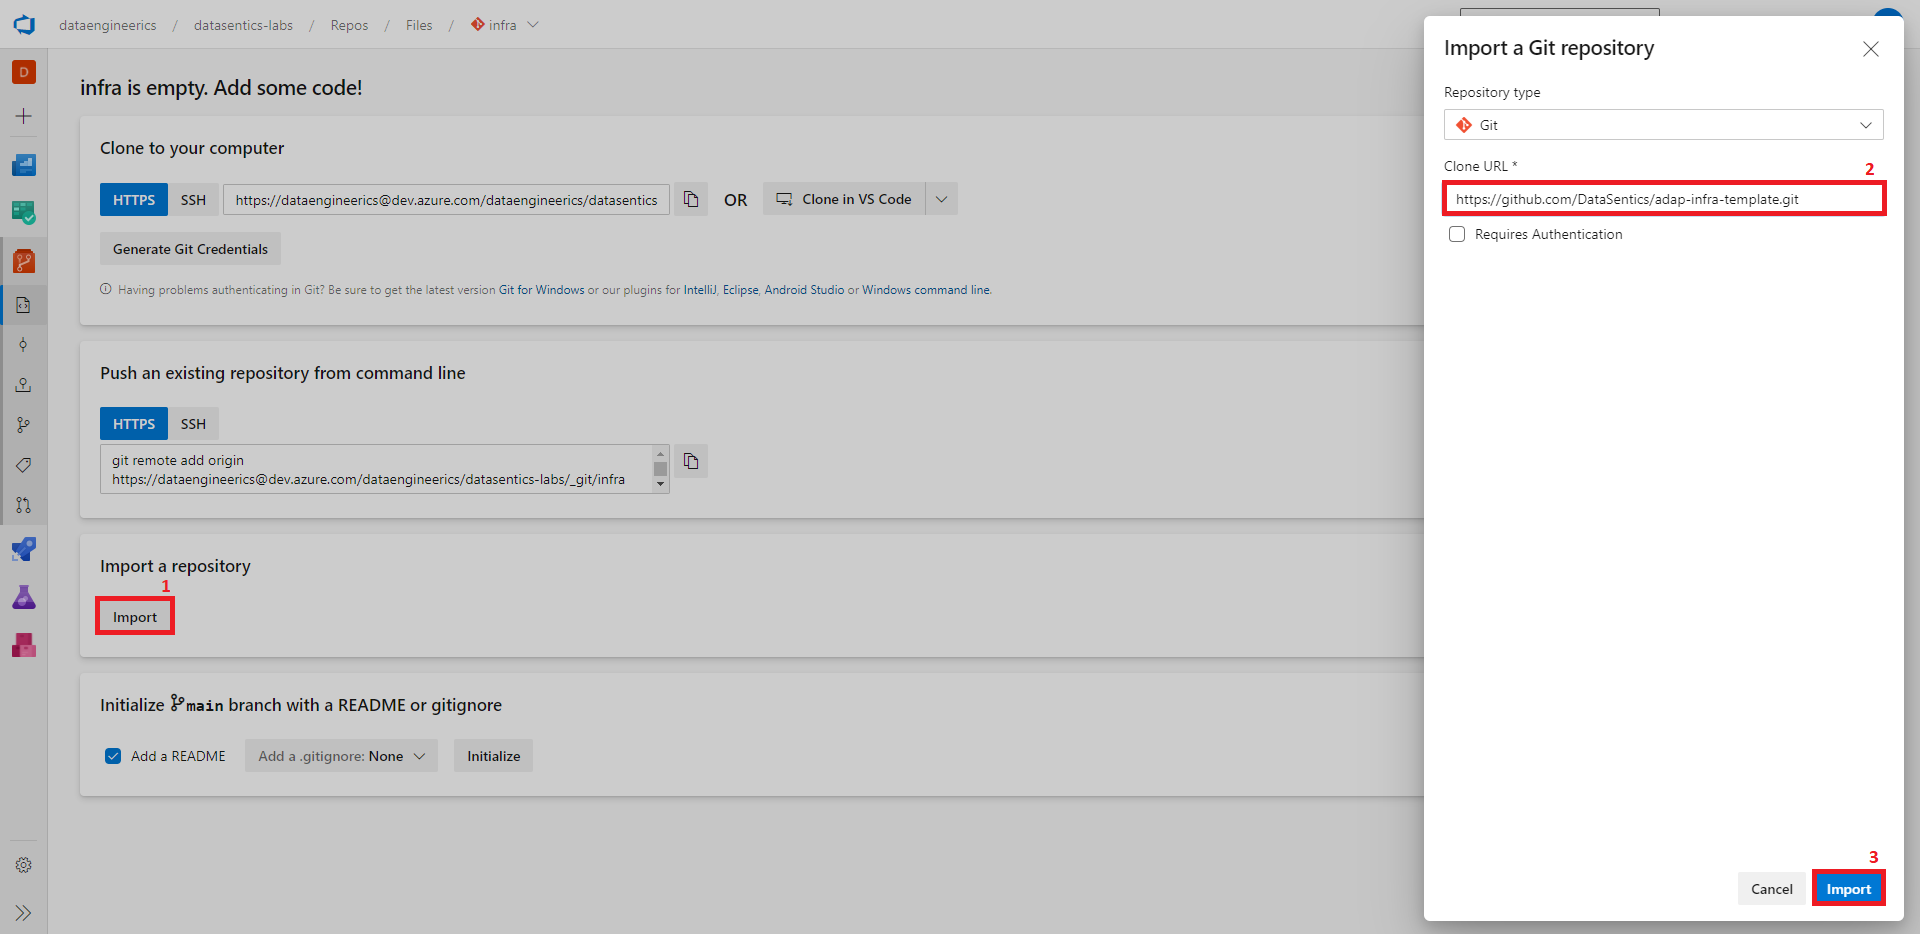
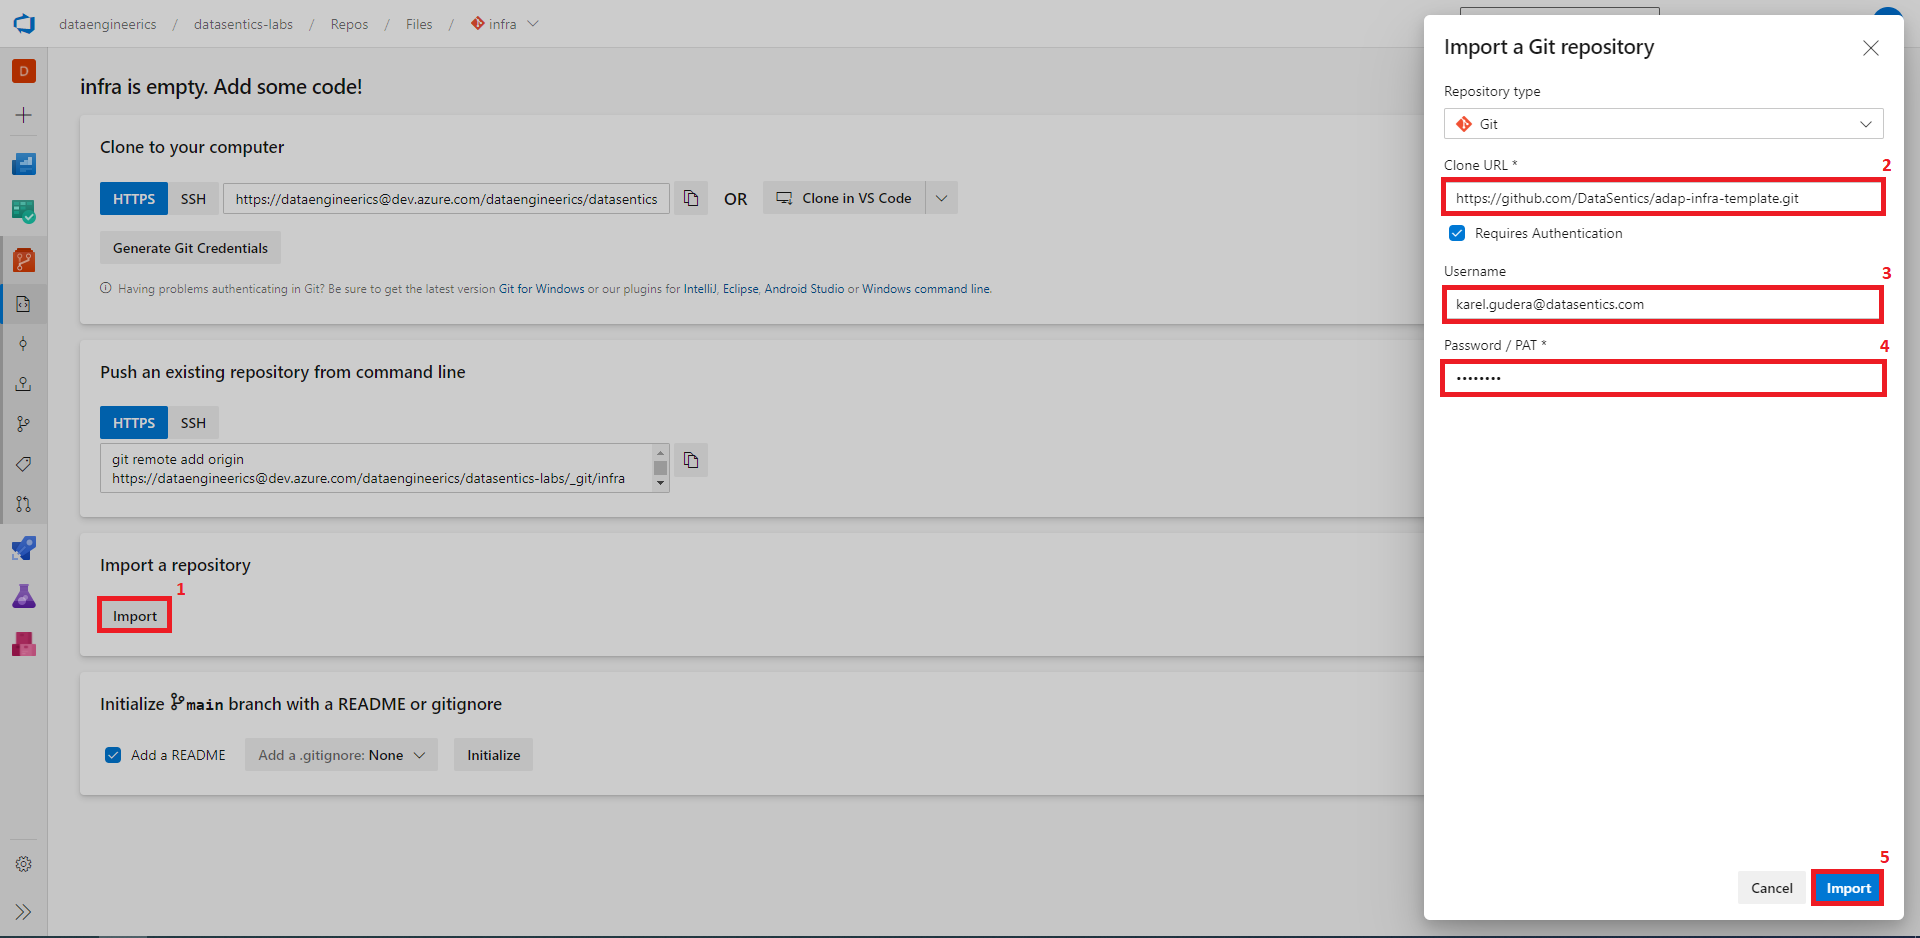
Github authentication

diff --git a/docs/getting-started/resources-setup.md b/docs/getting-started/resources-setup.md
@@ -16,6 +16,8 @@
 
 - Click on Import
 - In Clone URL fill `https://github.com/DataSentics/adap-infra-template.git`
+- In Username fill your Datasentics email
+- In Password fill your Github password
 - Click on Import
 
 !![](../images/resources_step3.png)
